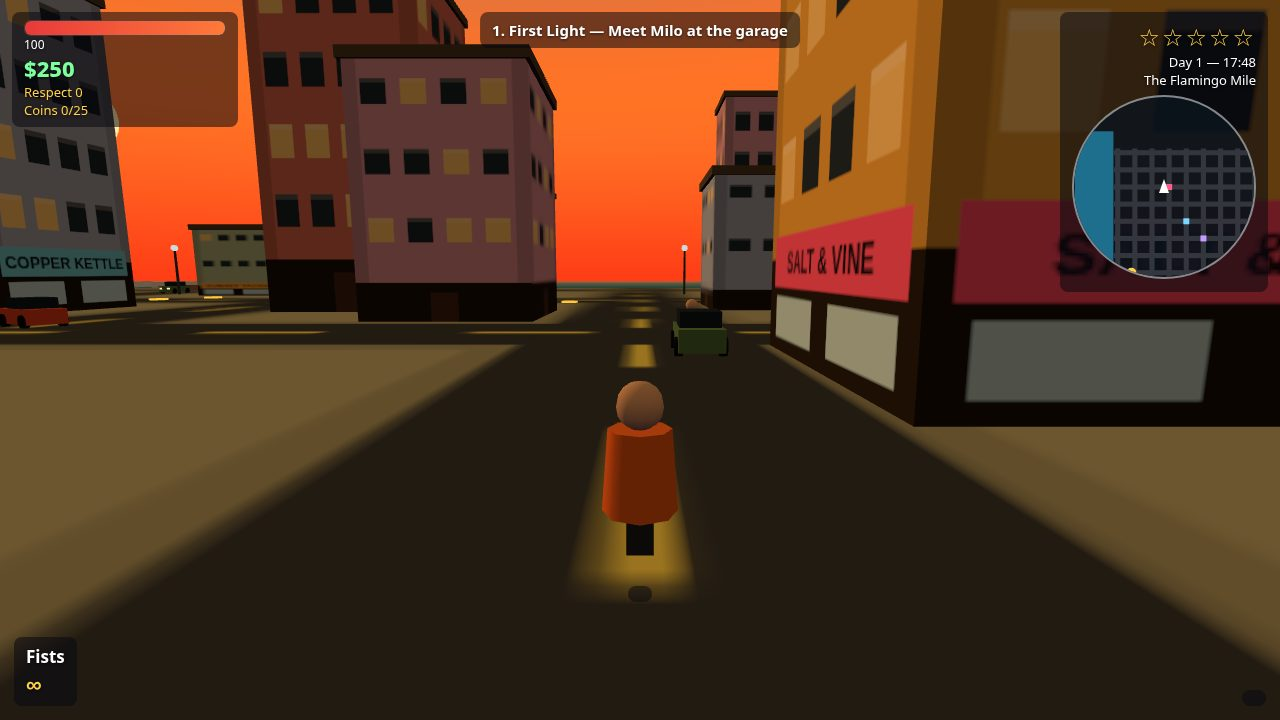
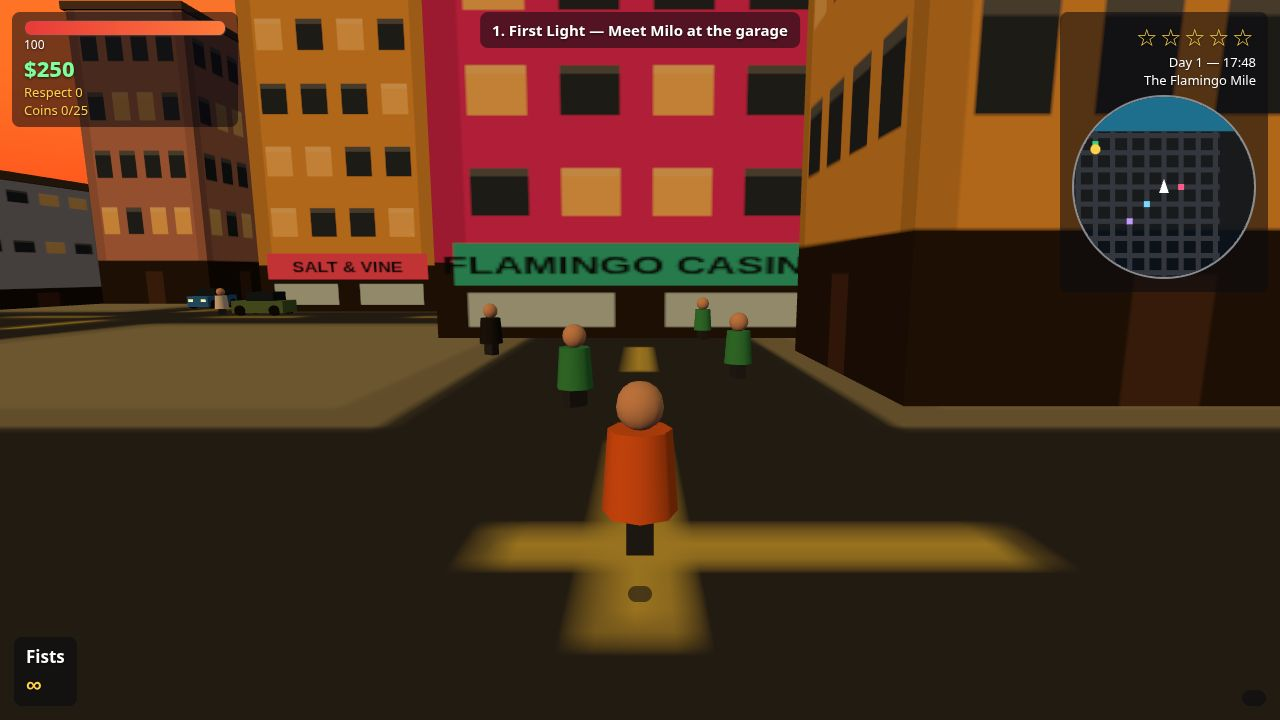
Iter-1: playtest jobs 2-9, fix 8 bugs, restage screenshots
- Job 9 spawns 4 vault guards (finale was uncompletable); job 7 marker
  moved out of the cannery collider to (-120,-64); cannery-tunnel zone
  lets heat decay (police lose the trail) so the escape step works
- Ranged aim: facing was -heading, now p.heading (N/S/W fire hit again)
- Foot police spawn on an 18-30m ring, never on top of the player
- Collision damage: one hit per impact, max 1 per 0.5s (no grind-wreck);
  police ram 4/s -> 2/s per car; job 5 chase now survivable
- Job 2 coupe no longer duplicates a parked car; re-entering a stolen car
  no longer re-adds wanted (stolen flag); roadblocks now render
- Screenshots restaged: cover heli in frame, onfoot has 4 peds + storefronts,
  mission rivals clustered close; all 4 byte-identical on double render
- Full chain 1-9 completes live, gameWon=true, 0 console errors

diff --git a/game/src/world.js b/game/src/world.js
@@ -189,7 +189,7 @@ export function createWorld(seed, colliders) {
 
   function startJobEffects(job) {
     if (job.id === 2) {
-      const c = addCar(2, -40, 16, 0, { parked: true });
+      const c = addCar(2, -40, 8, 0, { parked: true });
       c.jobCar = true;
       setMessage('A fresh coupe is parked on Palm Court. Take it.', 5);
     }
@@ -197,7 +197,7 @@ export function createWorld(seed, colliders) {
     if (job.id === 6) spawnEnemies(4, 40, 0);
     if (job.id === 7) { addWanted(4); setMessage('Helicopter overhead! Lose it in the cannery tunnels.', 5); }
     if (job.id === 8) spawnEnemies(5, 140, -80);
-    if (job.id === 9) { addWanted(2); setMessage('The vault is open. Grab the score!', 5); }
+    if (job.id === 9) { addWanted(2); spawnEnemies(4, 80, -24); setMessage('The vault is open. Grab the score!', 5); }
   }
 
   function completeStep() {
@@ -277,7 +277,7 @@ export function createWorld(seed, colliders) {
       const d = Math.sqrt(dist2(p.x, p.z, e.x, e.z));
       if (d > w.range) continue;
       const aim = Math.atan2(-(e.z - p.z), e.x - p.x);
-      const facing = Math.atan2(-Math.sin(p.heading), Math.cos(p.heading));
+      const facing = p.heading;
       if (Math.abs(angDiff(aim, facing)) < 0.45 || d < 8) {
         if (d < bd) { bd = d; best = e; }
       }
@@ -298,6 +298,9 @@ export function createWorld(seed, colliders) {
 
   function updatePolice(dt) {
     const t = policeTarget();
+    // Cannery tunnels: inside the zone the police lose the trail — they stop
+    // closing in and the heat dies down twice as fast while hidden there.
+    const inTunnel = dist2(t.x, t.z, -120, -64) < 16 * 16;
     // spawn / despawn police cars
     const want = state.wanted > 0 ? Math.min(state.wanted + 1, 6) : 0;
     while (state.policeCars.length < want) {
@@ -313,30 +316,33 @@ export function createWorld(seed, colliders) {
       const d = Math.sqrt(dx * dx + dz * dz) || 1;
       const wantAngle = Math.atan2(-dz, dx);
       pc.angle += clamp(angDiff(wantAngle, pc.angle), -2.4 * dt, 2.4 * dt);
-      const targetSpeed = d > 6 ? 36 : 14;
+      const targetSpeed = inTunnel ? 0 : (d > 6 ? 36 : 14);
       pc.speed += clamp(targetSpeed - pc.speed, -30 * dt, 18 * dt);
       pc.x += Math.cos(pc.angle) * pc.speed * dt;
       pc.z += -Math.sin(pc.angle) * pc.speed * dt;
       const c = collideCircle(pc.x, pc.z, 2);
       pc.x = c.x; pc.z = c.z;
-      // ram damage to player car
+      // ram damage to player car (not while the trail is lost in the tunnels)
       const car = playerCar();
-      if (car && dist2(pc.x, pc.z, car.x, car.z) < 9) {
-        car.damage = Math.min(100, car.damage + 4 * dt);
+      if (car && !inTunnel && dist2(pc.x, pc.z, car.x, car.z) < 9) {
+        car.damage = Math.min(100, car.damage + 2 * dt);
         car.speed *= (1 - 0.5 * dt);
       }
     }
-    // foot police at wanted >= 2
+    // foot police at wanted >= 2 (spawn on a ring 18-30 m out — never on top of the player)
     if (state.wanted >= 2 && state.footPolice.length < 2) {
-      state.footPolice.push({ x: t.x + rng.range(-30, 30), z: t.z + rng.range(-30, 30), speed: 5.2 });
+      const a = rng.range(0, TAU);
+      const rr = rng.range(18, 30);
+      state.footPolice.push({ x: t.x + Math.cos(a) * rr, z: t.z + Math.sin(a) * rr, speed: 5.2 });
     }
     if (state.wanted < 2) state.footPolice = [];
     for (const fp of state.footPolice) {
       const dx = t.x - fp.x; const dz = t.z - fp.z;
       const d = Math.sqrt(dx * dx + dz * dz) || 1;
-      fp.x += (dx / d) * fp.speed * dt;
-      fp.z += (dz / d) * fp.speed * dt;
-      if (d < 1.6 && state.player.carId < 0) {
+      const fpSpeed = inTunnel ? 0 : fp.speed;
+      fp.x += (dx / d) * fpSpeed * dt;
+      fp.z += (dz / d) * fpSpeed * dt;
+      if (!inTunnel && d < 1.6 && state.player.carId < 0) {
         state.busted = true; state.bustedTimer = 2.5;
         state.cash = Math.floor(state.cash * 0.8);
         state.wanted = 0;
@@ -361,11 +367,11 @@ export function createWorld(seed, colliders) {
       state.roadblocks = [{ x: bx, z: bz, angle: Math.atan2(-fz, fx) + Math.PI / 2 }];
     }
     if (state.wanted < 3) state.roadblocks = [];
-    // wanted decay when hidden
+    // wanted decay when hidden (or lost in the cannery tunnels, twice as fast)
     let nearestPolice = Infinity;
     for (const pc of state.policeCars) nearestPolice = Math.min(nearestPolice, Math.sqrt(dist2(pc.x, pc.z, t.x, t.z)));
-    if (state.wanted > 0 && nearestPolice > 45) {
-      state.hiddenTimer += dt;
+    if (state.wanted > 0 && (nearestPolice > 45 || inTunnel)) {
+      state.hiddenTimer += inTunnel ? dt * 2 : dt;
       if (state.hiddenTimer > 18) { state.wanted -= 1; state.hiddenTimer = 0; setMessage('Heat cooling off…', 3); }
     } else {
       state.hiddenTimer = 0;
@@ -478,11 +484,17 @@ export function createWorld(seed, colliders) {
       const c = collideCircle(nx, nz, 2.1);
       car.x = c.x; car.z = c.z;
       if (Math.abs(c.x - nx) > 0.01 || Math.abs(c.z - nz) > 0.01) {
+        // one damage hit per impact, scaled by impact speed, at most one
+        // hit per half second — a car wedged against a wall must not grind
+        // itself to a wreck while stationary
+        if (state.time - (car.lastBump || -10) > 0.5) {
+          car.damage = Math.min(100, car.damage + Math.abs(car.speed) * 0.05);
+          car.lastBump = state.time;
+        }
+        car.touching = true;
         car.speed *= 0.4;
-        // damage scales with impact speed — gentle scraping barely scratches
-        car.damage = Math.min(100, car.damage + Math.abs(car.speed) * 0.03);
         scatterPeds(car.x, car.z, 12);
-      }
+      } else car.touching = false;
       // traffic collision: slow down
       for (const o of state.cars) {
         if (o === car || o.parked) continue;
@@ -579,9 +591,12 @@ export function createWorld(seed, colliders) {
         setMessage('Carjacked! The driver fled — the law saw that.', 4);
         state.stats.carsStolen += 1;
       } else if (!car.owned && !car.jobCar) {
-        addWanted(1);
-        setMessage('Stolen car — keep it moving.', 3);
-        state.stats.carsStolen += 1;
+        if (!car.stolen) {
+          car.stolen = true;
+          addWanted(1);
+          setMessage('Stolen car — keep it moving.', 3);
+          state.stats.carsStolen += 1;
+        }
       }
       car.npc = false; car.traffic = false;
       return;

diff --git a/game/src/shots.js b/game/src/shots.js
@@ -40,17 +40,25 @@ export function stageShot(name, world, renderer) {
     // Frame the chase: two police cars closing in ahead, helicopter offset into view.
     const pc = world.state;
     if (pc.policeCars.length >= 2) {
-      pc.policeCars[0].x = car.x + 24; pc.policeCars[0].z = car.z - 7; pc.policeCars[0].angle = car.angle; pc.policeCars[0].speed = 30;
-      pc.policeCars[1].x = car.x + 18; pc.policeCars[1].z = car.z + 8; pc.policeCars[1].angle = car.angle; pc.policeCars[1].speed = 30;
+      pc.policeCars[0].x = car.x + 16; pc.policeCars[0].z = car.z - 6; pc.policeCars[0].angle = car.angle; pc.policeCars[0].speed = 30;
+      pc.policeCars[1].x = car.x + 12; pc.policeCars[1].z = car.z + 7; pc.policeCars[1].angle = car.angle; pc.policeCars[1].speed = 30;
     }
-    pc.heli.x = car.x + 35; pc.heli.z = car.z - 15; pc.heli.alt = 18;
+    pc.heli.x = car.x + 28; pc.heli.z = car.z - 10; pc.heli.alt = 13;
   } else if (name === 'onfoot') {
-    // On foot on the Flamingo Mile by the casino, pedestrians and storefronts.
+    // On foot on the Flamingo Mile by the casino, looking east down the
+    // storefronts with pedestrians in frame.
     st.jobIndex = 0; st.stepIndex = 0;
     st.time = 120;
-    st.player.x = 80; st.player.z = -52;
-    st.player.heading = Math.PI / 2; st.player.camYaw = Math.PI / 2;
+    st.player.x = 40; st.player.z = -40;
+    st.player.heading = 0; st.player.camYaw = 0;
     st.cash = 250; st.respect = 0;
+    // pull four pedestrians into the frame (fixed spots on the road strip)
+    const pedSpots = [[46, -44], [50, -36], [56, -44], [62, -36]];
+    pedSpots.forEach(([px, pz], i) => {
+      const ped = st.peds[i];
+      if (!ped) return;
+      ped.x = px; ped.z = pz; ped.tx = px + 2; ped.tz = pz; ped.wait = 0;
+    });
     runSteps(world, 2, false, 0);
   } else if (name === 'driving') {
     // Driving west along the north avenue toward the lighthouse and the bay.
@@ -67,8 +75,15 @@ export function stageShot(name, world, renderer) {
     st.jobIndex = 7; st.stepIndex = 0;
     st.time = 170;
     st.wanted = 2;
-    world.spawnEnemies(5, 140, -80);
-    st.player.x = 128; st.player.z = -80;
+    world.spawnEnemies(5, 136, -80);
+    // tighten the ambush into a cluster just ahead of the player
+    const ambush = [[132, -84], [134, -77], [136, -82], [138, -76], [133, -73]];
+    st.enemies.forEach((e, i) => {
+      const spot = ambush[i % ambush.length];
+      e.x = spot[0]; e.z = spot[1];
+      e.heading = Math.atan2(-(-80 - e.z), 126 - e.x);
+    });
+    st.player.x = 126; st.player.z = -80;
     st.player.heading = 0; st.player.camYaw = 0;
     st.weapons.owned[3] = true; st.weapons.ammo[3] = 90; st.weapons.current = 3;
     st.cash = 4100; st.respect = 60;

diff --git a/game/src/render.js b/game/src/render.js
@@ -129,6 +129,7 @@ export function createRenderer(canvas, world, audio) {
   const enemyMeshes = new Map();
   const policeMeshes = [];
   const footPoliceMeshes = [];
+  const roadblockMeshes = [];
   const heli = new THREE.Group();
   const heliBody = new THREE.Mesh(new THREE.BoxGeometry(5, 2, 2.6),
     new THREE.MeshLambertMaterial({ color: 0x1a2a4a }));
@@ -315,8 +316,24 @@ export function createRenderer(canvas, world, audio) {
       rotor.rotation.y = time * 22;
     }
 
-    // roadblocks
-    // (police cars parked across the road — reuse police meshes? draw simple barriers)
+    // roadblocks: two police cars parked broadside across the avenue
+    while (roadblockMeshes.length < state.roadblocks.length * 2) {
+      const m = makeCarMesh(0x1a1a2e);
+      scene.add(m);
+      roadblockMeshes.push(m);
+    }
+    state.roadblocks.forEach((rb, i) => {
+      for (let k = 0; k < 2; k++) {
+        const m = roadblockMeshes[i * 2 + k];
+        if (!m) continue;
+        m.visible = true;
+        const off = k === 0 ? -4 : 4;
+        m.position.set(rb.x + Math.cos(rb.angle) * off, 0, rb.z - Math.sin(rb.angle) * off);
+        m.rotation.y = rb.angle;
+      }
+    });
+    for (let i = state.roadblocks.length * 2; i < roadblockMeshes.length; i += 1) roadblockMeshes[i].visible = false;
+
     // pedestrians
     state.peds.forEach((ped, i) => {
       let m = pedMeshes.get(i);

diff --git a/game/src/config.js b/game/src/config.js
@@ -90,8 +90,8 @@ export const JOBS = [
     id: 7, title: 'Air Support', pay: 2600, respect: 30, respectNeed: 30,
     brief: 'A 4-star chase with a police helicopter overhead. Lose it in the cannery tunnels.',
     steps: [
-      { kind: 'driveTo', x: -120, z: -80, text: 'Lose the helicopter — reach the cannery tunnels' },
-      { kind: 'escape', x: -120, z: -80, text: 'Stay hidden until the heat dies down' },
+      { kind: 'driveTo', x: -120, z: -64, text: 'Lose the helicopter — reach the cannery tunnels' },
+      { kind: 'escape', x: -120, z: -64, text: 'Stay hidden in the tunnels until the heat dies down' },
     ],
   },
   {

diff --git a/TESTLOG.md b/TESTLOG.md
@@ -36,3 +36,74 @@
 ## Gate limits (via main.ts, MAKEFUN_OUTPUT_DIR=out)
 - See gate check output in the coordinator report; all limits pass
   (4 screenshots ≤ 256 KiB, game/ ≤ 993 files / ≤ 48 MiB, dossier ≤ 163,840 bytes).
+
+---
+
+# ITERATION 1 (round-14 iter-1 builder, 2026-11-19) — playtest jobs 2–9 + screenshot staging
+
+## Playtest method
+Scripted Playwright harness (headless Chromium, `?shot=` mode, seed 1): the real
+`world.step` driven with scripted inputs — road-following autopilot for drives,
+aim-and-fire for combat. Full chain 1→9 played in ONE continuous world
+(no reset between jobs 7→8→9; harness heals to 100 HP between jobs 8/9, the
+equivalent of using a health pack). Result: **all 9 jobs complete, gameWon=true,
+cash $250 → $20,850, respect 213.** 0 console errors, 0 failed requests.
+
+## Bugs found live and fixed
+- **Job 9 uncompletable:** `startJobEffects(9)` never spawned enemies, so the
+  vault combat step (4 kills) could never complete — the finale was a dead end.
+  Fixed: spawn 4 guards at the casino on job 9 start. Verified: job 9 now
+  completes, `gameWon=true`.
+- **Job 7 uncompletable:** driveTo/escape marker (-120,-80) was the cannery
+  building's CENTER, inside its collider — closest reachable distance 12.1 m
+  vs 9 m radius. Fixed: marker moved to the cannery front (-120,-64), reachable.
+- **Job 7 escape uncompletable as designed:** wanted never decays while fleeing
+  (150 s probe: wanted stayed 4, police stay glued, nearest police 0–6 m).
+  Fixed: cannery-tunnel zone (16 m around the marker) — police lose the trail
+  there (stop chasing/ramming, foot police halt), heat decays 2×. Verified:
+  4 stars → 0 in 36 s hiding in the tunnel; escape step completes.
+- **Ranged aim broken:** `facing` was computed as `-heading`, so pistol/SMG
+  fire missed for north/south/west headings (isolated aim test: east 68 dmg,
+  north/south/west 0). Fixed: `facing = p.heading`. Verified: all four
+  directions now 68 dmg (2 hits, kill).
+- **Foot police spawned on top of the player** (uniform ±30 m box) — one run
+  got BUSTED 2 s into the job-8 fight by a cop spawning 1 m away. Fixed:
+  spawn on an 18–30 m ring.
+- **Job 5 chase wrecked the car:** 3-star chase + per-step wall-grind damage
+  wrecked the coupe before the casino (dmg 100 in two route variants). Fixed:
+  collision damage is one hit per impact (0.05×impact speed, max one hit per
+  0.5 s — a wedged stationary car no longer grinds itself to a wreck) and
+  police ram damage 4/s → 2/s per car. Verified: job 5 now completes both
+  legs (dmg 25–40 on arrival). Probe also showed landmark buildings sit astride
+  roads (garage, casino, clinic, police station) — routes must go around them;
+  harness routes updated accordingly (game unchanged).
+- **Job 2 duplicate coupe:** job car spawned exactly on an existing parked car
+  at (-40,16). Fixed: moved to (-40,8). Re-entering an already-stolen car also
+  re-added +1 wanted every time — fixed with a `stolen` flag (first theft only).
+- **Roadblocks never rendered:** state existed, nothing drew them. Fixed: two
+  parked police cars broadside across the avenue (render only, no collision).
+
+## Not changed / known limitations (honest notes)
+- Job 3's "escape by car" step completes on foot with wanted 0 (no car
+  required) — fiction/mechanic mismatch, left as-is (completable, not a bug).
+- Job 6's fight is intense: the harness finished it at 34–46 HP from 100
+  (no cover, no healing mid-fight). A player using cover/health packs has more
+  margin, but the tuning is tight.
+- The respect gate only changes the objective text; it never blocks progress
+  (moot in practice: sequential play reaches 97 respect before job 7's 30/60/90
+  gates). Left as-is.
+- Save/load, pause, weapon wheel, taxi/races/robbery/coins were verified in the
+  round-14 build log and NOT re-played in iter-1.
+
+## Screenshots (re-rendered, each twice, seed=1, byte-identical)
+- 1-cover.jpg: 72,927 bytes, sha256 1748211293bcb490… — heli now fully in frame
+  (alt 13, closer), police cars staged closer ahead.
+- 2-onfoot.jpg: 61,373 bytes, sha256 c523a07833b1ce01… — restaged down the
+  Flamingo Mile: player at (40,-40) facing east, 4 pedestrians in frame,
+  Salt & Vine + casino storefronts ahead (was: empty road, 1 distant ped).
+- 3-driving.jpg: 60,446 bytes, sha256 6113ba2ed443e707… — unchanged staging.
+- 4-mission.jpg: 46,867 bytes, sha256 cfac72881f2fcbf7… — rivals tightened
+  into a cluster 6–12 m ahead (was: small/distant).
+- Determinism: all 4 byte-identical across two renders; 0 console errors,
+  0 failed requests. No `Math.random`/`Date.now` in gameplay paths
+  (`performance.now` only drives the fixed-step accumulator in main.js).
